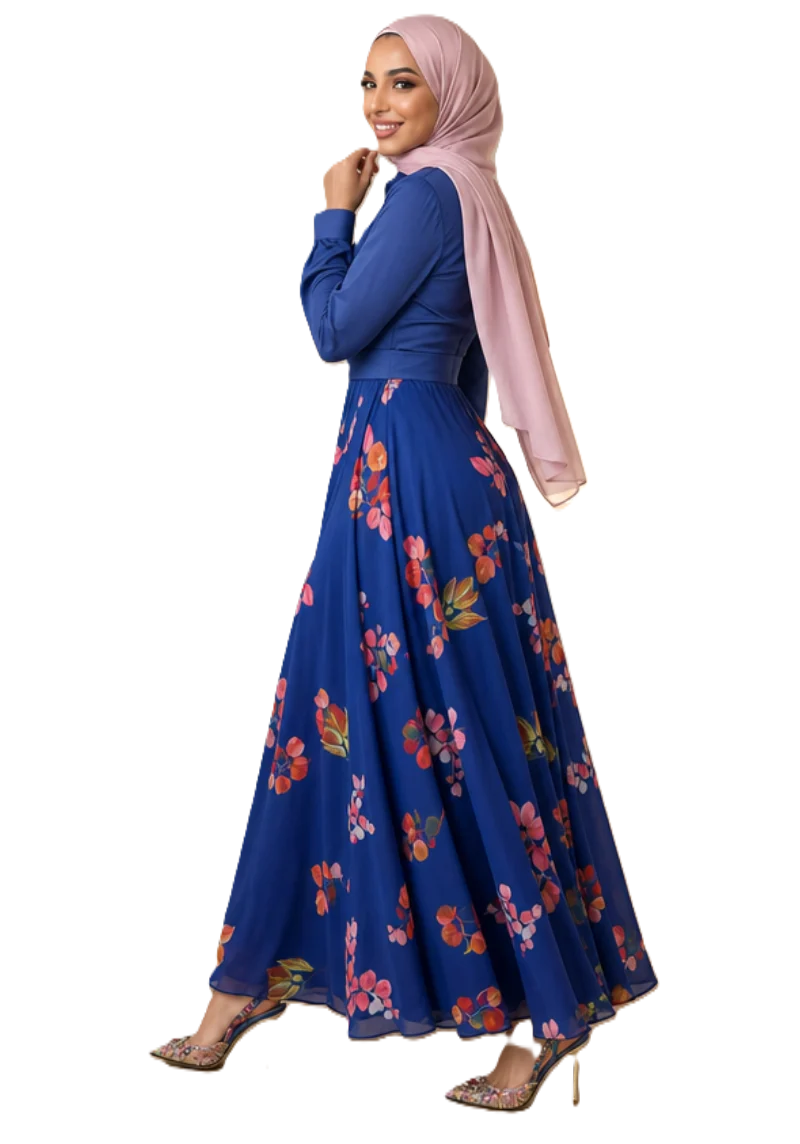
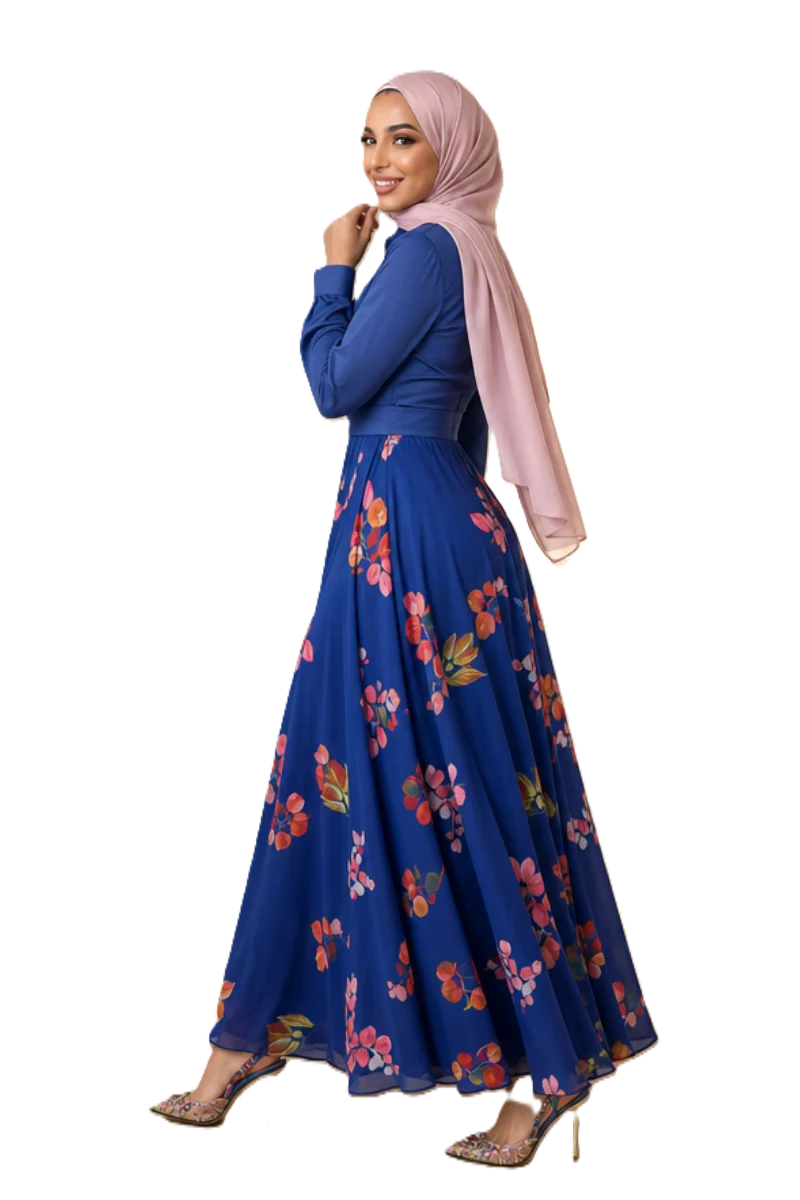
$ => KES

Changed region(s): [[0.1875, 0.0, 0.8438, 0.979]]

diff --git a/templates/index.html b/templates/index.html
@@ -8,7 +8,7 @@
 <section class="container hero-wrap">
   <div class="hero">
     <h1 class="hero_word">FASHION</h1>
-    <img class="hero_model" src="{{ url_for('static', filename='img/t1top.png') }}" alt="Model in a black wide-brim hat, cream knit and black trousers" width="1024" height="1280" fetchpriority="high">
+    <img class="hero_model" src="{{ url_for('static', filename='img/top-1.png') }}" alt="Model in a black wide-brim hat, cream knit and black trousers" width="1024" height="1280" fetchpriority="high">
     <div class="hero_content">
       <div class="hero_cta">
         <p>Winter Gear That Actually Works.</p>

diff --git a/data.py b/data.py
@@ -14,97 +14,98 @@ CATEGORY_LABELS = {c["id"]: c["label"] for c in CATEGORIES}
 
 SIZES = ["XS", "S", "M", "L", "XL"]
 
-FREE_SHIPPING_THRESHOLD = 150
-SHIPPING_FEE = 10
+CURRENCY = "KES"
+FREE_SHIPPING_THRESHOLD = 19488
+SHIPPING_FEE = 1299
 
 PRODUCTS = [
     {
         "slug": "jeans-and-white-tee", "name": "Jeans & Classic Tee", "category": "tshirt",
-        "price": 85, "compare_at": 120, "image": "p-white-tee.jpg",
+        "price": 11043, "compare_at": 15591, "image": "p-white-tee.jpg",
         "colors": ["White", "Light Wash"], "sizes": SIZES,
         "description": "A relaxed crew-neck tee in heavyweight organic cotton, styled with our high-rise straight jeans. The everyday uniform, perfected.",
         "details": ["100% organic cotton tee", "High-rise straight denim", "Machine wash cold"],
     },
     {
         "slug": "polka-long-sleeve-blouse", "name": "Polka Long Sleeve Blouse", "category": "casual",
-        "price": 85, "compare_at": 120, "image": "p-polka-blouse.jpg",
+        "price": 11043, "compare_at": 15591, "image": "p-polka-blouse.jpg",
         "colors": ["Burgundy"], "sizes": SIZES,
         "description": "Fluid crepe blouse with a soft collar, puff shoulders and gathered cuffs. Dresses up with tailoring or down with denim.",
         "details": ["Lightweight crepe", "Button front", "Gathered elastic cuffs"],
     },
     {
         "slug": "camel-tailored-blazer", "name": "Camel Tailored Blazer", "category": "formal",
-        "price": 145, "compare_at": 190, "image": "p-camel-blazer.jpg", "is_new": True,
+        "price": 18839, "compare_at": 24685, "image": "p-camel-blazer.jpg", "is_new": True,
         "colors": ["Camel", "Black"], "sizes": SIZES,
         "description": "A sharply cut single-breasted blazer with structured shoulders and a softly nipped waist. Pair with the matching trousers.",
         "details": ["Wool-blend twill", "Fully lined", "Dry clean only"],
     },
     {
         "slug": "satin-wrap-shirt", "name": "Satin Wrap Shirt", "category": "formal",
-        "price": 95, "image": "p-brown-shirt.jpg", "is_new": True,
+        "price": 12342, "image": "p-brown-shirt.jpg", "is_new": True,
         "colors": ["Chocolate", "Ivory"], "sizes": SIZES,
         "description": "Liquid satin wrap shirt with a tie waist and a deep V collar. Effortless glow from desk to dinner.",
         "details": ["Silky satin", "Side tie closure", "Hand wash"],
     },
     {
         "slug": "oatmeal-lounge-set", "name": "Oatmeal Lounge Set", "category": "sweatwear",
-        "price": 110, "compare_at": 140, "image": "p-oat-hoodie.jpg",
+        "price": 14291, "compare_at": 18189, "image": "p-oat-hoodie.jpg",
         "colors": ["Oatmeal", "Charcoal"], "sizes": SIZES,
         "description": "Brushed-back fleece hoodie and jogger set in a calming oatmeal melange. Made for slow mornings and long-haul flights.",
         "details": ["Cotton fleece", "Kangaroo pocket", "Elastic cuffs"],
     },
     {
         "slug": "sage-active-set", "name": "Sage Active Set", "category": "active",
-        "price": 78, "image": "p-active-set.jpg", "is_new": True,
+        "price": 10134, "image": "p-active-set.jpg", "is_new": True,
         "colors": ["Sage", "Black"], "sizes": SIZES,
         "description": "Sculpting racerback bra and high-waist leggings in a buttery four-way stretch fabric. Squat-proof and sweat-wicking.",
         "details": ["Four-way stretch", "Medium support", "Hidden waist pocket"],
     },
     {
         "slug": "tan-leather-top-handle", "name": "Tan Leather Top Handle", "category": "accessories",
-        "price": 160, "compare_at": 210, "image": "p-leather-bag.jpg",
+        "price": 20787, "compare_at": 27283, "image": "p-leather-bag.jpg",
         "colors": ["Tan"], "sizes": ["One Size"],
         "description": "A structured top-handle bag in smooth leather with polished gold hardware. Silk scarf included.",
         "details": ["Genuine leather", "Gold-tone turn lock", "Includes silk scarf"],
     },
     {
         "slug": "wide-leg-pleated-trousers", "name": "Wide Leg Pleated Trousers", "category": "bottoms",
-        "price": 92, "image": "p-wide-trousers.jpg",
+        "price": 11953, "image": "p-wide-trousers.jpg",
         "colors": ["Cream", "Black"], "sizes": SIZES,
         "description": "High-rise pleated trousers that skim the floor. Tailored at the waist, fluid through the leg.",
         "details": ["Soft drape twill", "Front pleats", "Side pockets"],
     },
     {
         "slug": "black-satin-slip-dress", "name": "Black Satin Slip Dress", "category": "formal",
-        "price": 130, "compare_at": 165, "image": "p-black-dress.jpg",
+        "price": 16890, "compare_at": 21437, "image": "p-black-dress.jpg",
         "colors": ["Black"], "sizes": SIZES,
         "description": "Bias-cut midi slip dress with a cowl neckline and delicate adjustable straps. Evening, sorted.",
         "details": ["Bias-cut satin", "Adjustable straps", "Midi length"],
     },
     {
         "slug": "coral-cargo-pants", "name": "Coral Cargo Pants", "category": "bottoms",
-        "price": 70, "image": "t-street.jpg", "is_new": True,
+        "price": 9094, "image": "t-street.jpg", "is_new": True,
         "colors": ["Coral", "Stone"], "sizes": SIZES,
         "description": "Washed cotton cargo pants with a relaxed straight leg and roomy utility pockets. Street-ready in seconds.",
         "details": ["Washed cotton twill", "Six pockets", "Relaxed fit"],
     },
     {
         "slug": "sand-wool-overcoat", "name": "Sand Wool Overcoat", "category": "formal",
-        "price": 220, "compare_at": 280, "image": "t-coat.jpg",
+        "price": 28583, "compare_at": 36378, "image": "t-coat.jpg",
         "colors": ["Sand", "Camel"], "sizes": SIZES,
         "description": "An oversized long overcoat in brushed wool with wide notch lapels. Winter gear that actually works.",
         "details": ["Wool blend", "Dropped shoulders", "Two welt pockets"],
     },
     {
         "slug": "linen-v-neck-tank", "name": "Linen V-Neck Tank", "category": "casual",
-        "price": 48, "image": "t-everyday.jpg",
+        "price": 6236, "image": "t-everyday.jpg",
         "colors": ["White", "Natural"], "sizes": SIZES,
         "description": "Breathable washed linen tank with a soft swing shape. The easiest thing you'll wear all summer.",
         "details": ["100% linen", "Relaxed swing fit", "Machine wash"],
     },
     {
         "slug": "crisp-poplin-shirt", "name": "Crisp Poplin Shirt", "category": "formal",
-        "price": 75, "compare_at": 95, "image": "t-tailored.jpg",
+        "price": 9744, "compare_at": 12342, "image": "t-tailored.jpg",
         "colors": ["White", "Blue"], "sizes": SIZES,
         "description": "A classic button-down in crisp cotton poplin, cut slightly relaxed for tucking or wearing loose.",
         "details": ["Cotton poplin", "Mother-of-pearl buttons", "Machine wash"],
@@ -129,7 +130,7 @@ STATS = [
 ]
 
 FAQS = [
-    {"q": "How long does delivery take?", "a": "Orders are dispatched within 24 hours. Standard delivery takes 2–5 business days, and orders over $150 ship free."},
+    {"q": "How long does delivery take?", "a": "Orders are dispatched within 24 hours. Standard delivery takes 2–5 business days, and orders over KES 19,488 ship free."},
     {"q": "What is your return policy?", "a": "You can return unworn items with tags within 30 days for a full refund or exchange. Returns are free for store credit."},
     {"q": "How do I find my size?", "a": "Each product page lists the fit and fabric. Our pieces run true to size — if you're between sizes, we recommend sizing up for a relaxed fit."},
     {"q": "Do you ship internationally?", "a": "Yes, we ship to over 40 countries. Duties and taxes are calculated at checkout so there are no surprises on delivery."},
@@ -176,7 +177,7 @@ def discount_percent(p):
 
 
 def format_price(n):
-    return f"${n:.0f}"
+    return f"{CURRENCY} {n:,.0f}"
 
 
 def shipping_for(subtotal):

diff --git a/migrations/versions/c9317a9e4f20_convert_catalog_prices_to_kes.py b/migrations/versions/c9317a9e4f20_convert_catalog_prices_to_kes.py
@@ -1,0 +1,68 @@
+"""Convert existing catalog prices from USD to KES.
+
+Revision ID: c9317a9e4f20
+Revises: bf7036db7373
+Create Date: 2026-11-08 17:20:00
+
+"""
+from decimal import Decimal, ROUND_HALF_UP
+
+from alembic import op
+import sqlalchemy as sa
+
+
+revision = "c9317a9e4f20"
+down_revision = "bf7036db7373"
+branch_labels = None
+depends_on = None
+
+USD_TO_KES = Decimal("129.920856")
+WHOLE_SHILLING = Decimal("1")
+ONE_CENT = Decimal("0.01")
+
+products = sa.table(
+    "products",
+    sa.column("id", sa.Integer),
+    sa.column("price", sa.Numeric(10, 2)),
+    sa.column("compare_at", sa.Numeric(10, 2)),
+)
+
+
+def _convert(amount, rate, precision):
+    if amount is None:
+        return None
+    return (Decimal(amount) * rate).quantize(precision, rounding=ROUND_HALF_UP)
+
+
+def upgrade():
+    connection = op.get_bind()
+    rows = connection.execute(
+        sa.select(products.c.id, products.c.price, products.c.compare_at)
+    ).mappings().all()
+    for row in rows:
+        connection.execute(
+            products.update()
+            .where(products.c.id == row["id"])
+            .values(
+                price=_convert(row["price"], USD_TO_KES, WHOLE_SHILLING),
+                compare_at=_convert(row["compare_at"], USD_TO_KES, WHOLE_SHILLING),
+            )
+        )
+
+
+def downgrade():
+    connection = op.get_bind()
+    rows = connection.execute(
+        sa.select(products.c.id, products.c.price, products.c.compare_at)
+    ).mappings().all()
+    for row in rows:
+        connection.execute(
+            products.update()
+            .where(products.c.id == row["id"])
+            .values(
+                price=_convert(row["price"], Decimal("1") / USD_TO_KES, ONE_CENT),
+                compare_at=_convert(
+                    row["compare_at"], Decimal("1") / USD_TO_KES, ONE_CENT
+                ),
+            )
+        )

diff --git a/app.py b/app.py
@@ -848,6 +848,7 @@ def checkout():
             for item in summary["items"]
         ],
         "total": float(summary["total"]),
+        "currency": data.CURRENCY,
     })
     for item in summary["items"]:
         item["variant"].stock -= item["qty"]

diff --git a/README.md b/README.md
@@ -58,9 +58,13 @@ ordered for the product gallery; `ProductVariant` rows track stock for each
 color/size combination. `price` is the current selling price, and optional
 `compare_at` is the higher original price used to show a discount.
 
-The initial catalog seed gives the demo products 99 units per color/size
-combination. Future schema changes should use Flask-Migrate
-(`flask --app app db migrate`, then `flask --app app db upgrade`).
+Catalog prices, discounts, shipping, and cart totals use Kenyan shillings
+(KES); new order records include the KES currency code. Existing USD catalog
+and shipping amounts were converted at 1 USD = 129.920856 KES
+(ExchangeRate-API, 2026-11-08). The initial catalog
+seed gives the demo products 99 units per color/size combination. Future schema
+changes should use Flask-Migrate (`flask --app app db migrate`, then
+`flask --app app db upgrade`).
 Admin accounts are created only from the CLI with `flask --app app create-admin`;
 there is no public admin signup. Sign in at `/admin` to manage drafts, inventory,
 product images, discounts, and publishing.
